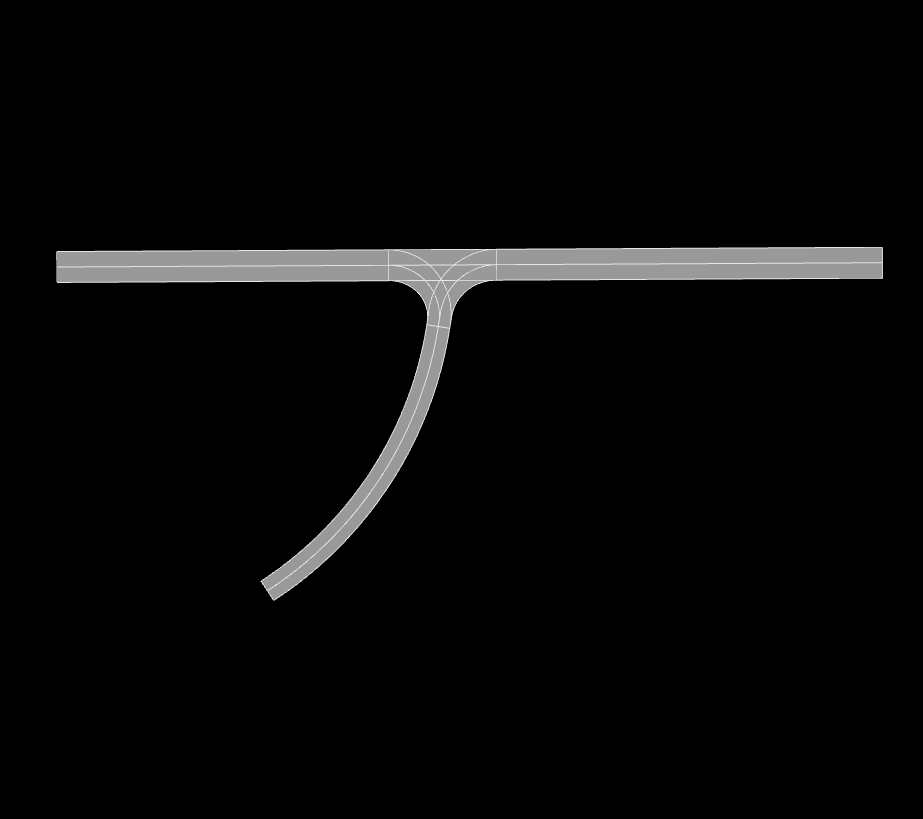
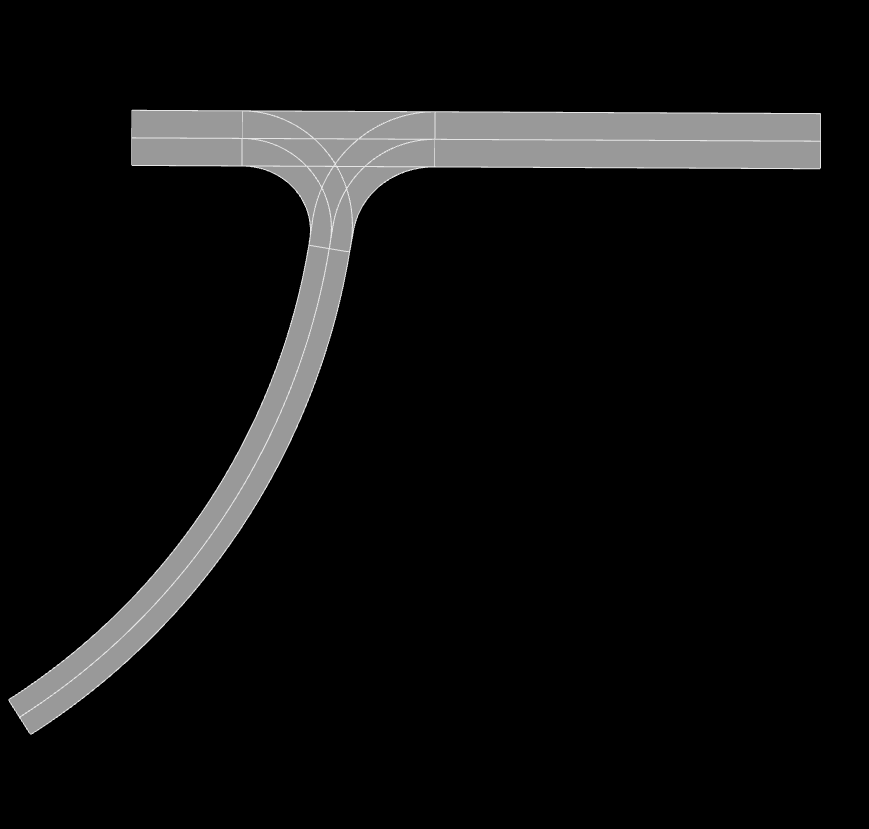
added junction templates

Changed region(s): [[0.0, 0.1221, 0.9632, 0.8852]]

diff --git a/docs/inputdoc.rst b/docs/inputdoc.rst
@@ -50,6 +50,7 @@ Road
 LineType
 ^^^^^^^^
 At the moment three different types of line are supported. Straight lines, curves and spirals.
+
 .. csv-table::
     :widths: 100 100 100 100 50
 
@@ -166,33 +167,35 @@ Examples
 
 .. code-block:: xml
 
-        <junction id="1" type="M2A">
-        <road id="1" classification="main" >	
-            <referenceLine>
-                <line length="150"/>
-            </referenceLine>
-        </road>
-        <road id="2" classification="access" >	
-            <referenceLine>
-                <line length="150"/>
-            </referenceLine>
-        </road>
-        <road id="3" classification="access" >	
-            <referenceLine>
-                <line length="150"/>
-            </referenceLine>
-        </road>
-        <intersectionPoint refRoad="1" s="75">
-            <adRoad id="2" s="20" angle="-1.27"/>
-            <adRoad id="3" s="20" angle="1.57"/>
-        </intersectionPoint>
-        <coupler>
-            <junctionArea gap="10">
-                <roadGap id="2" gap="15"/>
-                <roadGap id="3" gap="15"/>
-            </junctionArea>
-        </coupler>
-    </junction>
+            <junction id="1" type="M2A">
+            <road id="1" classification="main" >	
+                <referenceLine>
+                    <line length="150"/>
+                </referenceLine>
+            </road>
+            <road id="2" classification="access" >	
+                <referenceLine>
+                    <line length="150"/>
+                </referenceLine>
+            </road>
+            <road id="3" classification="access" >	
+                <referenceLine>
+                    <line length="150"/>
+                </referenceLine>
+            </road>
+            <intersectionPoint refRoad="1" s="75">
+                <adRoad id="2" s="20" angle="-1.27"/>
+                <adRoad id="3" s="20" angle="1.57"/>
+            </intersectionPoint>
+            <coupler>
+                <junctionArea gap="10">
+                    <roadGap id="2" gap="15"/>
+                    <roadGap id="3" gap="15"/>
+                </junctionArea>
+            </coupler>
+        </junction>
+    </roadNetwork>
+
 
 **3A Junction**
 
@@ -202,33 +205,34 @@ Examples
 
 .. code-block:: xml
 
-    <junction id="1" type="3A">
-        <road id="1" classification="access" >	
-            <referenceLine>
-                <spiral length="100"  Rs="-150" Re="0"/>
-            </referenceLine>
-        </road>
-        <road id="2" classification="access" >	
-            <referenceLine>
-                <arc length="100"  R="-100"/>
-            </referenceLine>
-        </road>
-        <road id="3" classification="access" >	
-            <referenceLine>
-                <arc length="100"  R="-100"/>
-            </referenceLine>
-        </road>
-        <intersectionPoint refRoad="1" s="100">
-            <adRoad id="2" s="0" angle="3.14"/>
-            <adRoad id="3" s="0" angle="1.57079632679"/>
-        </intersectionPoint>
-        <coupler>
-            <junctionArea gap="10">
-                <roadGap id="2" gap="15"/>
-            </junctionArea>
-            <connection type="all"/>
-        </coupler>
-    </junction>
+        <junction id="1" type="3A">
+            <road id="1" classification="access" >	
+                <referenceLine>
+                    <spiral length="100"  Rs="-150" Re="0"/>
+                </referenceLine>
+            </road>
+            <road id="2" classification="access" >	
+                <referenceLine>
+                    <arc length="100"  R="-100"/>
+                </referenceLine>
+            </road>
+            <road id="3" classification="access" >	
+                <referenceLine>
+                    <arc length="100"  R="-100"/>
+                </referenceLine>
+            </road>
+            <intersectionPoint refRoad="1" s="100">
+                <adRoad id="2" s="0" angle="3.14"/>
+                <adRoad id="3" s="0" angle="1.57079632679"/>
+            </intersectionPoint>
+            <coupler>
+                <junctionArea gap="10">
+                    <roadGap id="2" gap="15"/>
+                </junctionArea>
+                <connection type="all"/>
+            </coupler>
+        </junction>
+    </roadNetwork>
 
 **MA Junction**
 
@@ -258,6 +262,7 @@ Examples
                 </junctionArea>
             </coupler>
         </junction>
+    </roadNetwork>
 
 
 **2M Junction**
@@ -267,29 +272,33 @@ Examples
     :width: 427
 
 .. code-block:: xml
-    
-        <junction id="1" type="2M">
-        <road id="1" classification="main" >	
-            <referenceLine>
-                <line length="100"/>
-            </referenceLine>
-        </road>
-        <road id="2" classification="main" >	
-            <referenceLine>
-                <arc length="100"  R="-100"/>
-            </referenceLine>
-        </road>
-        <intersectionPoint refRoad="1" s="50">
-            <adRoad id="2" s="50" angle="-1.57"/>
-        </intersectionPoint>
-        <coupler>
-            <junctionArea gap="10">
-                    <roadGap id="1" gap="15"/>
-                <roadGap id="2" gap="20"/>
-            </junctionArea>
-        </coupler>
-    </junction>
 
+    
+    <roadNetwork xmlns:xsi="http://www.w3.org/2001/XMLSchema-instance" xsi:noNamespaceSchemaLocation="../xml/input.xsd">
+        <segments>
+            <junction id="1" type="2M">
+                <road id="1" classification="main" >	
+                    <referenceLine>
+                        <line length="100"/>
+                    </referenceLine>
+                </road>
+                <road id="2" classification="main" >	
+                    <referenceLine>
+                        <arc length="100"  R="-100"/>
+                    </referenceLine>
+                </road>
+                <intersectionPoint refRoad="1" s="50">
+                    <adRoad id="2" s="50" angle="-1.57"/>
+                </intersectionPoint>
+                <coupler>
+                    <junctionArea gap="10">
+                            <roadGap id="1" gap="15"/>
+                        <roadGap id="2" gap="20"/>
+                    </junctionArea>
+                </coupler>
+            </junction>
+        </segments>
+    </roadNetwork>
 
 
 **Additional Lane**
@@ -300,34 +309,156 @@ Examples
 
 .. code-block:: xml
 
-    <segments>
-        <junction id="1" type="MA">
-            <road id="1" classification="main" >	
-                <referenceLine>
-                    <line length="100"/>
-                </referenceLine>
-            </road>
-            
-            <road id="2" classification="access" >	
-                <referenceLine>
-                    <arc length="100"  R="-100"/>
-                </referenceLine>
+    <roadNetwork xmlns:xsi="http://www.w3.org/2001/XMLSchema-instance" xsi:noNamespaceSchemaLocation="../xml/input.xsd">
+        <segments>
+            <junction id="1" type="MA">
+                <road id="1" classification="main" >	
+                    <referenceLine>
+                        <line length="100"/>
+                    </referenceLine>
+                </road>
                 
-            </road>
-            <intersectionPoint refRoad="1" s="100">
-                <adRoad id="2" s="0" angle="-1.57"/>
-            </intersectionPoint>
-            <coupler>
-                <junctionArea gap="10">
-                    <roadGap id="2" gap="15"/>
-                </junctionArea>
-                <connection type="all"/>
-                <additionalLanes>
-                    <additionalLane roadId="2" roadPos="end" type="left" length="5" />
-                </additionalLanes>
-            </coupler>
-        </junction>
-    </segments>
+                <road id="2" classification="access" >	
+                    <referenceLine>
+                        <arc length="100"  R="-100"/>
+                    </referenceLine>
+                    
+                </road>
+                <intersectionPoint refRoad="1" s="100">
+                    <adRoad id="2" s="0" angle="-1.57"/>
+                </intersectionPoint>
+                <coupler>
+                    <junctionArea gap="10">
+                        <roadGap id="2" gap="15"/>
+                    </junctionArea>
+                    <connection type="all"/>
+                    <additionalLanes>
+                        <additionalLane roadId="2" roadPos="end" type="left" length="5" />
+                    </additionalLanes>
+                </coupler>
+            </junction>
+        </segments>
+    </roadNetwork>
+
+
+**Multiple Lanes**
+
+.. figure:: _static/MulLanes.png
+    :class: align-right
+    :width: 427
+
+.. code-block:: xml
+
+    <roadNetwork xmlns:xsi="http://www.w3.org/2001/XMLSchema-instance" xsi:noNamespaceSchemaLocation="../xml/input.xsd">
+       <segments>
+            <junction id="1" type="MA">
+                <road id="1" classification="main" >	
+                    <referenceLine>
+                        <line length="100"/>
+                    </referenceLine>
+                    <lanes>
+                    <lane id="2" type="driving" width="5">
+                            <roadMark type="solid" color="white" width="0.1"/>
+                    </lane>
+                    <lane id="1" type="driving">
+                            <roadMark type="solid" color="white" width="0.1"/>
+                            </lane>
+                        <lane id="0" type="driving"> </lane>
+                            <lane id="-1" type="driving" width="3">
+                                <roadMark type="solid" color="white" width="0.1"/>
+                        </lane>
+                    </lanes>
+                </road>
+                
+                <road id="2" classification="access" >	
+                    <referenceLine>
+                        <arc length="100"  R="-100"/>
+                    </referenceLine>
+                    <lanes>
+                    <lane id="2" type="driving" width="5">
+                            <roadMark type="solid" color="white" width="0.1"/>
+                    </lane>
+                    <lane id="1" type="driving">
+                            <roadMark type="solid" color="white" width="0.1"/>
+                            </lane>
+                        <lane id="0" type="driving"> </lane>
+                            <lane id="-1" type="driving" width="3">
+                                <roadMark type="solid" color="white" width="0.1"/>
+                        </lane>
+                    </lanes>
+                </road>
+                <intersectionPoint refRoad="1" s="50">
+                    <adRoad id="2" s="0" angle="-1.57"/>
+                </intersectionPoint>
+                <coupler>
+                    <junctionArea gap="10">
+                        <roadGap id="2" gap="15"/>
+                    </junctionArea>
+                    <connection type="all"/>
+                    
+                </coupler>
+            </junction>
+        </segments>
+    </roadNetwork>
+
+
+.. figure:: _static/m2amultiplelanes.png
+    :class: align-right
+    :width: 427
+
+.. code-block:: xml
+
+    <roadNetwork xmlns:xsi="http://www.w3.org/2001/XMLSchema-instance" xsi:noNamespaceSchemaLocation="../xml/input.xsd">
+        <segments>
+            <junction id="1" type="2M">
+                <road id="1" classification="main" >	
+                    <referenceLine>
+                        <line length="200"/>
+                    </referenceLine>
+                    <lanes>
+                    <lane id="2" type="driving" width="5">
+                            <roadMark type="solid" color="white" width="0.1"/>
+                    </lane>
+                    <lane id="1" type="driving">
+                            <roadMark type="solid" color="white" width="0.1"/>
+                            </lane>
+                        <lane id="0" type="driving"> </lane>
+                            <lane id="-1" type="driving" width="3">
+                                <roadMark type="solid" color="white" width="0.1"/>
+                        </lane>
+                    </lanes>
+                </road>
+                
+                <road id="2" classification="main" >	
+                    <referenceLine>
+                        <arc length="200"  R="-100"/>
+                    </referenceLine>
+                    <lanes>
+                    <lane id="2" type="driving" width="5">
+                            <roadMark type="solid" color="white" width="0.1"/>
+                    </lane>
+                    <lane id="1" type="driving">
+                            <roadMark type="solid" color="white" width="0.1"/>
+                            </lane>
+                        <lane id="0" type="driving"> </lane>
+                            <lane id="-1" type="driving" width="3">
+                                <roadMark type="solid" color="white" width="0.1"/>
+                        </lane>
+                    </lanes>
+                </road>
+                <intersectionPoint refRoad="1" s="100">
+                    <adRoad id="2" s="100" angle="-1.57"/>
+                </intersectionPoint>
+                <coupler>
+                    <junctionArea gap="10">
+                        <roadGap id="2" gap="15"/>
+                    </junctionArea>
+                    <connection type="all"/>
+                    
+                </coupler>
+            </junction>
+        </segments>
+    </roadNetwork>
 
 
 Roundabout

diff --git a/docs/index.rst b/docs/index.rst
@@ -16,7 +16,6 @@ Welcome to Road's documentation!
     
     overview/readme
     overview/variation
-    overview/examples
 
 
 
